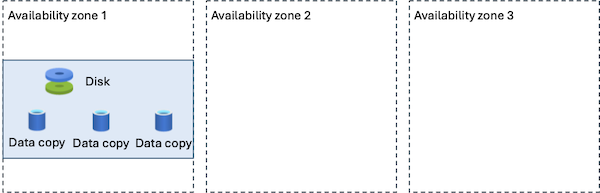
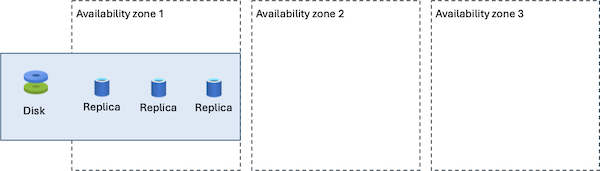
Updates

diff --git a/articles/reliability/reliability-storage-disk.md b/articles/reliability/reliability-storage-disk.md
@@ -39,7 +39,7 @@ This guide specifically focuses on managed disks, which reliably persist data. T
 
 By default, managed disks use [locally redundant storage (LRS)](/azure/storage/common/storage-redundancy#locally-redundant-storage). LRS keeps three copies of your disk data within a single datacenter, protecting against hardware failures such as drive or server rack issues.
 
-Although LRS protects your disks against server rack and drive failures, it doesn't account for disasters such as fire or flooding within a datacenter. In the face of such disasters, all replicas of a disk configured to use LRS might be lost or unrecoverable. For higher levels of protection, use [zone-redundant storage (ZRS)](#resilience-to-availability-zone-failures), which replicates your disks across multiple availability zones.
+Although LRS protects your disks against server rack and drive failures, it doesn't account for disasters such as fire or flooding within a datacenter. For higher levels of protection, use [zone-redundant storage (ZRS)](#resilience-to-availability-zone-failures), which replicates your disks across multiple availability zones.
 
 For applications running on multiple VMs, multiple VMs have the highest availability SLA when distributed across three availability zones. For VMs and disks distributed across multiple availability zones, the disks and their parent VMs are respectively collocated in the same zone, which prevents multiple VMs from going down even if an entire zone experiences an outage.
 
